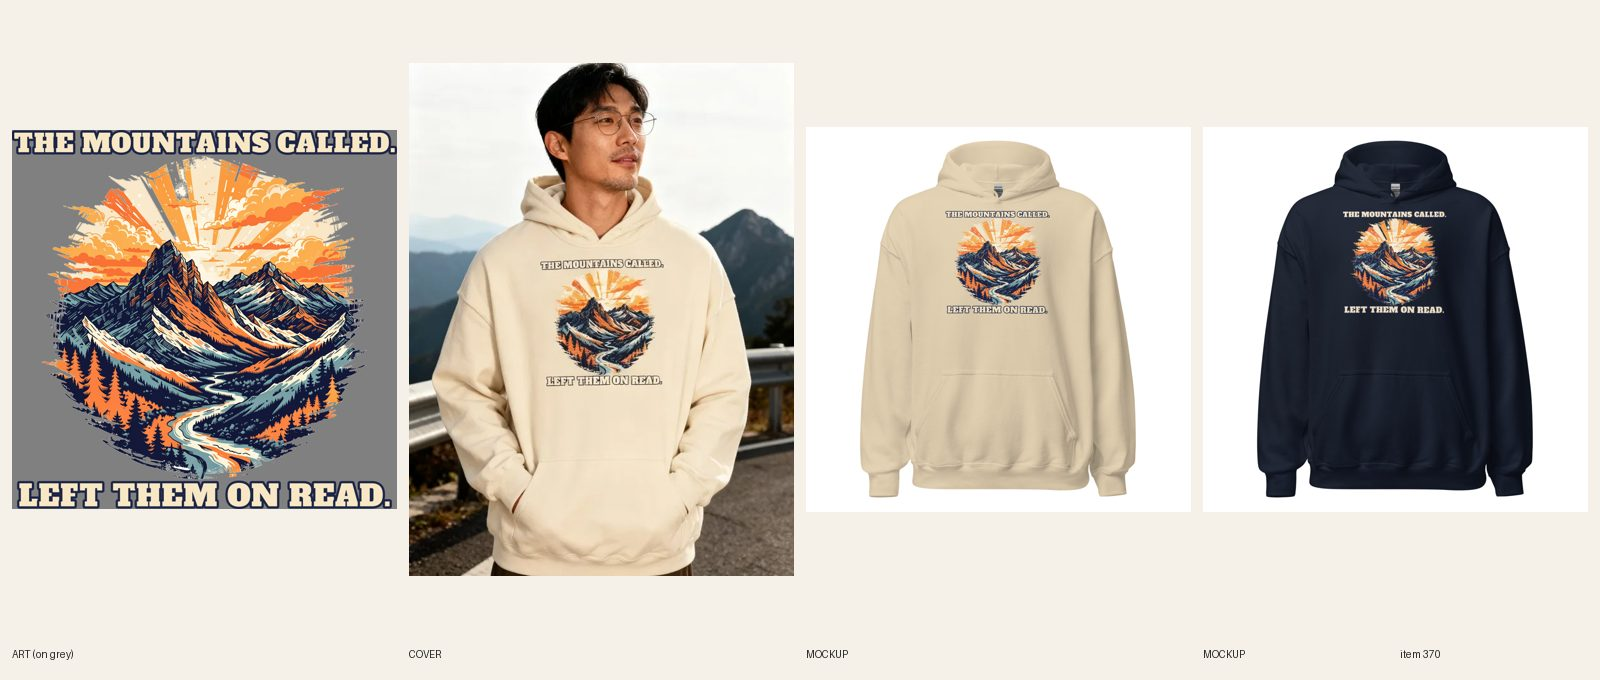
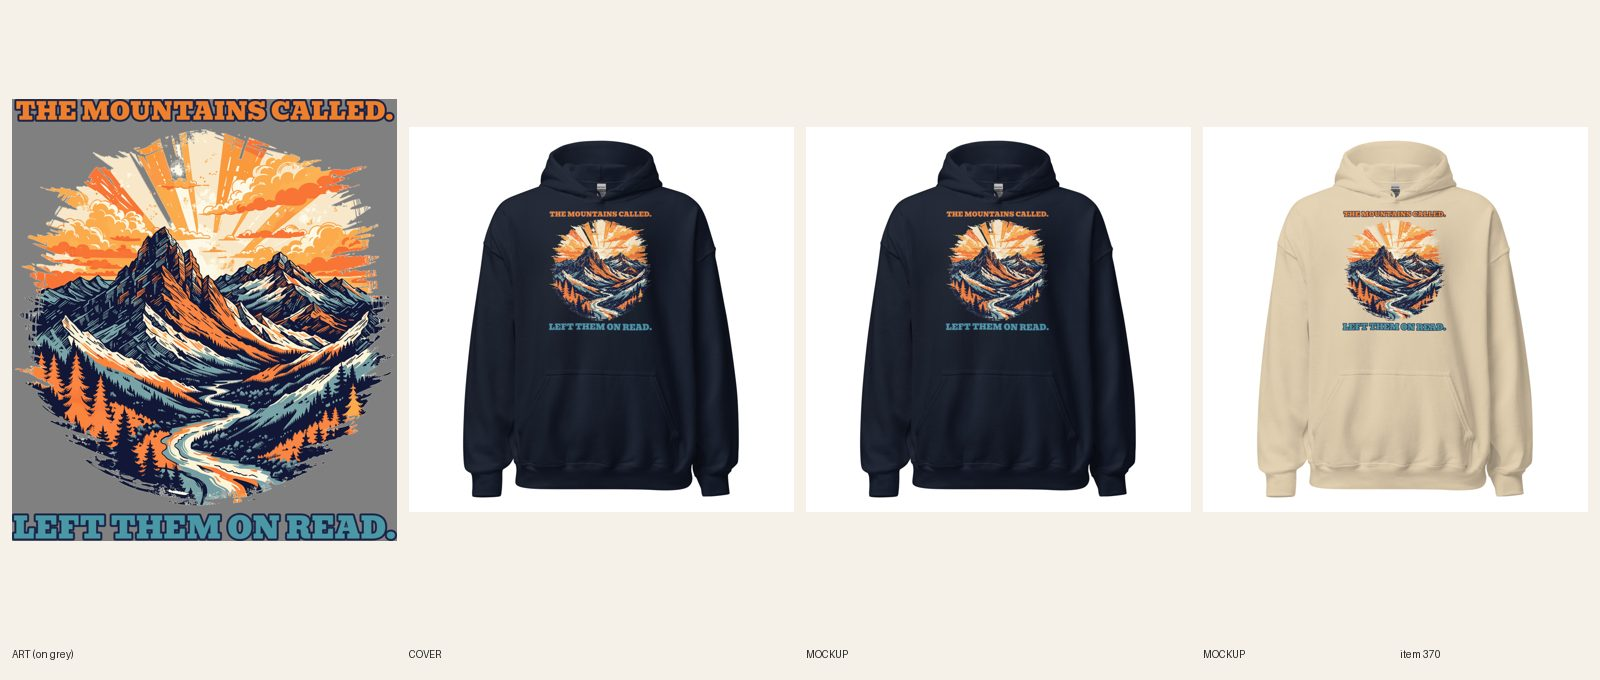
[B] review 370 Men's Mountains Called hoodie (type redo)
Claude-Session: https://claude.ai/code/session_01Dm5sMx9WTVgZ11g42j8e3F

diff --git a/docs/intake-log.md b/docs/intake-log.md
@@ -1,4 +1,4 @@
-RUNNING lane B since 2026-10-19 15:35 UTC
+2026-10-19 15:46 UTC — [B] Builder run: redid #370 Mountains Called hoodie (type only: Bevan heavy orange/teal lockup at full art width, same art, FW 1500, 12/12 synced, Sand+Navy mockups replaced in place, plain product shot). REVIEW. fal $0. 1 redo per run cap reached. Lock released.
 RUNNING lane C since 2026-10-19 15:27 UTC
 2026-10-19 16:20 UTC — [D] Director run (RESUMED). Inbox: nothing new needing action (RESUME 15:00 and cropped-hoodie notes already in rulebook/reset file). LIVE 6 (cap): #577, #624, #245, #275, #273, #328, all quality-reset redos already ACTIVE, audit --handle PASS 0 warn each, side-by-side verdicts in their pipeline files; 4 model covers added to retired-covers.json (R6.11); #275 added to /guides/white-elephant-gifts/. Reviewed: #599 APPROVED, held for next run (cap); #385 REDO (R3.7.8/reset type bar: thin brush lettering). The other 37 at REVIEW were approved in earlier runs and wait for the 6-per-run cap (next: #599, then add-ons). Twin REDOs #244 #274 #276 #560 #548 told to port the Sam-approved sample prints (fal $0). Briefs: #695 NYE crewneck twin (new years sweatshirt 480/46, Dec 5,400), #696 dance mom crewneck twin (320/48), #697 Outdoorsy in Theory cropped hoodie (cropped pullover 4,400/34), #698 Slept Outside. Have Notes. camp hoodie (2,400/38), #699 nana hoodie twin (grandma hoodie 320/48). READY A 9 / B 12 / C 12: lane A is 3 short because every measured Christmas/New Year garment phrase I checked this run (about 40) is claimed or unmeasured. Monday R9/R10 check: no new Google/Merchant Center/OpenAI change since the backtrack doc; R8.7 FAQ line updated (FAQ rich results fully deprecated). Digest not due (midday sent 12:20). Lock released.
 2026-10-19 15:05 UTC — [A] Builder run: quality reset still PAUSED; all 5 sample REDOs (#577 #624 #245 #275 #273) are at REVIEW, no lane A gift add-on briefs, covers on hold. Nothing built; no lock taken.

diff --git a/docs/pipeline/370-mountain-hoodie-mountains-called-left-on-read.md b/docs/pipeline/370-mountain-hoodie-mountains-called-left-on-read.md
@@ -1,4 +1,4 @@
-status: REDO
+status: REVIEW
 lane: B
 type: new
 id: 370
@@ -30,3 +30,4 @@ kd: 38
 - 2026-10-18 00:35 UTC builder [B]: synced 12/12. REVIEW. Sheet docs/review/370.jpg.
 - 2026-10-17 20:16 UTC director: APPROVED, LIVE. ACTIVE + published Online Store, Headless, Google; cohesion-audit --handle PASS. 'mountain hoodie' cut from 4 to 2 uses (audit stuffing warn)
 - 2026-10-18 17:22 UTC director: QUALITY RESET grade B (type only), REDO. The product stays ACTIVE (same handle, URL, title keyword). Keep the line "THE MOUNTAINS CALLED. / LEFT THEM ON READ." and the art. 1. Type: Both lines thin bars ~6% panel height, art dominates; plain bar top/bottom. 2. Quality reset type bar (docs/backlog/quality-reset.md, 'The new bar'): headline at least 90% of the art width, heavy, colors pulled from the art; second line at least 45% of the headline's height, never a thin script on a dark or mid garment; use the lettering as a shape (arch, stacked lockup, words breaking into the art), not a plain bar above and a script line below; no font used on more than 1 in 6 of the last 30 designs. 3. New print file means a new cover per R6.10 and a fresh review sheet (R7.7). While quality-reset.md says PAUSED, only lane A builds, and only the samples step 2 names.
+- 2026-10-19 15:45 UTC builder [B]: REDO type-only done. Same art, new print designs/b/mt2.json (Bevan, THE MOUNTAINS CALLED. burnt orange #ee7f2d, LEFT THEM ON READ. teal #4a97a6, navy keyline, both lines full art width, second line same width; no cream fill so no light file needed, reads on Sand and Navy). Printful file 1089622673, FW 1500 TOP 0 (10.5x12.1 in file, clears pouch on mockup), resynced 12/12. Front mockups Sand and Navy replaced in place in Shopify (back unchanged). Cover: plain product shot (handle added to retired-covers.json). Phone-size read ok. fal $0. Audit PASS. Sheet docs/review/370.jpg. Set REVIEW.
